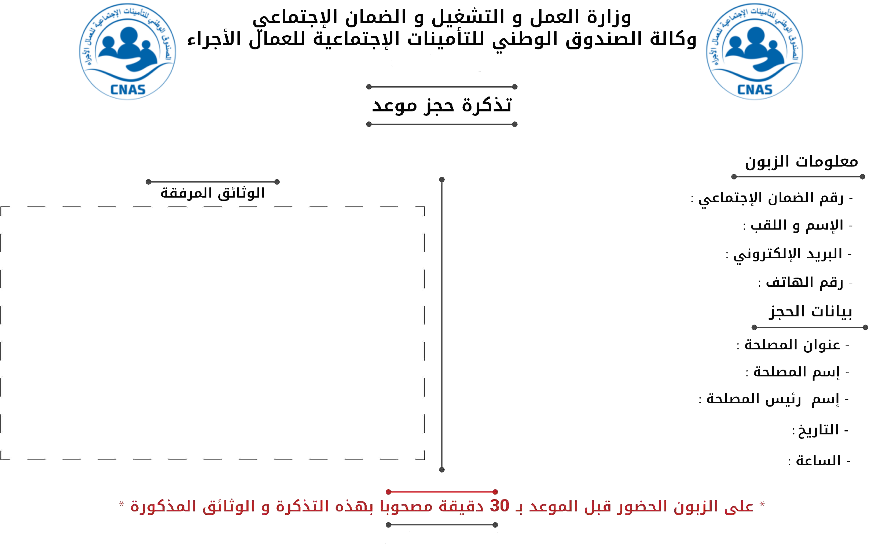
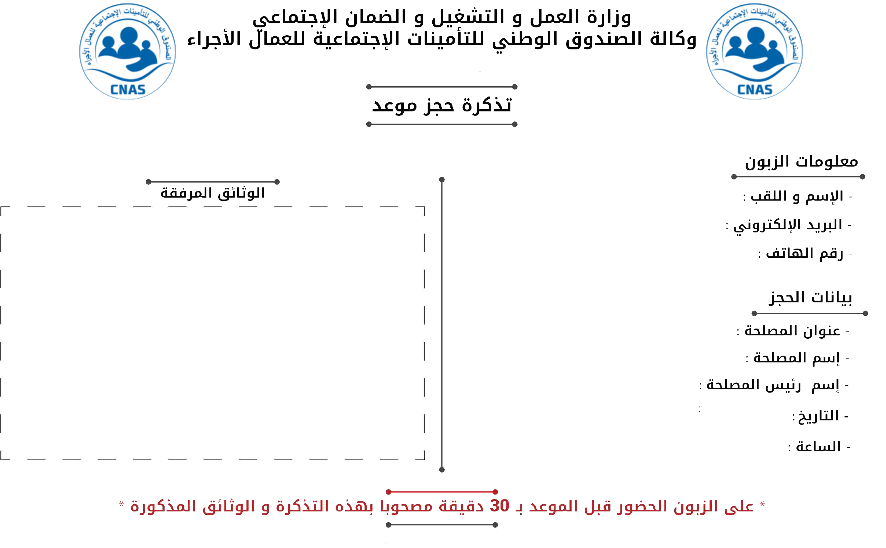
added appointment ticket

Changed region(s): [[0.7923, 0.4033, 0.9752, 0.8686], [0.7923, 0.3412, 0.9752, 0.3723]]

diff --git a/guichet_virtuel_cnas_m/resources/views/user/home.blade.php b/guichet_virtuel_cnas_m/resources/views/user/home.blade.php
@@ -136,9 +136,10 @@
                                         <td>@{{ myAppointment.employee.service.name }}</td>
                                         <td>@{{ myAppointment.employee.fullname }}</td>
                                         <td :class="getStatusClass(myAppointment.status)">@{{ myAppointment.status }}</td>
-                                       
-                                        <td  >
-                                            <button type="button" class="btn btn-primary btn-sm">Download</button>
+
+                                        <td>
+                                            <button type="button" class="btn btn-primary btn-sm"
+                                                v-on:click="printAppointment(myAppointment)">Download</button>
                                         </td>
                                     </tr>
                                 </tbody>
@@ -452,15 +453,15 @@
                                                         <div class="col-4">
                                                             <div class="list-group" v-if="documents.length > 0">
                                                                 <div class="list-group-item list-group-item-action"
-                                                                v-for="(document, index) in documents"
-                                                                :key="index">
-                                                                <div class="form-check">
-                                                                    <input class="form-check-input"
-                                                                    type="checkbox"
-                                                                    :id="'document-checkbox-' + index" disabled>
-                                                                    <label class="form-check-label"
-                                                                    :for="'document-checkbox-' + index">
-                                                                    @{{ document.name }}
+                                                                    v-for="(document, index) in documents"
+                                                                    :key="index">
+                                                                    <div class="form-check">
+                                                                        <input class="form-check-input"
+                                                                            type="checkbox"
+                                                                            :id="'document-checkbox-' + index" disabled>
+                                                                        <label class="form-check-label"
+                                                                            :for="'document-checkbox-' + index">
+                                                                            @{{ document.name }}
                                                                         </label>
                                                                     </div>
                                                                 </div>
@@ -474,33 +475,32 @@
                                                     <div class="row justify-content-between">
                                                         <div class="col-auto">
                                                             <button class="btn btn-primary"
-                                                            v-on:click="fetch_previous_questions()">
-                                                            <i class="fas fa-arrow-left"></i>
-                                                            Back
-                                                        </button>
+                                                                v-on:click="fetch_previous_questions()">
+                                                                <i class="fas fa-arrow-left"></i>
+                                                                Back
+                                                            </button>
+                                                        </div>
+                                                        <div class="col-auto">
+                                                            <button class="btn btn-primary"
+                                                                v-if="documents.length > 0 && fullname!=''"
+                                                                v-on:click="showBookingForm=true">
+                                                                <i class="fas fa-book"></i>
+                                                                Book
+                                                            </button>
+                                                            <button class="btn btn-primary"
+                                                                v-on:click="printDocuments"
+                                                                v-if="documents.length > 0">
+                                                                <i class="fas fa-print"></i>
+                                                                Print
+                                                            </button>
+                                                        </div>
                                                     </div>
-                                                    <div class="col-auto">
-                                                        <button class="btn btn-primary"
-                                                        v-if="documents.length > 0 && fullname!=''"
-                                                        v-on:click="showBookingForm=true">
-                                                        <i class="fas fa-book"></i>
-                                                        Book
-                                                    </button>
-                                                    <button class="btn btn-primary"
-                                                    v-on:click="printDocuments"
-                                                    v-if="documents.length > 0">
-                                                    <i class="fas fa-print"></i>
-                                                    Print
-                                                </button>
+                                                </div>
                                             </div>
                                         </div>
-                                    </div>
-                                </div>
-                            </div>
-                            <div v-if="fullname == '' "
-                                class="list-group-item text-danger">
-                                LOGIN TO BOOK AN APPOINTMENT
-                            </div>
+                                        <div v-if="fullname == '' " class="list-group-item text-danger">
+                                            LOGIN TO BOOK AN APPOINTMENT
+                                        </div>
                                         <div class="col-10"
                                             :class=" [showBookingForm ? 'col-10 animated fadeInDown' :
                                                  'col-10 animated fadeOutDown'
@@ -837,16 +837,16 @@
                                 console.log('30/05/2023');
                             },
                             printDocuments() {
-                //                                 const doc = new jsPDF();
-                //                                 var img = new Image();
-                //                                 img.src =  asset('assets/tickets/img/documents.png');
-                //                                 doc.addImage(img, 'png', 10, 78, 12, 15);
-                //                                 doc.text("Hello world!", 10, 10);
-                //                                 doc.save("a4.pdf");
-                //                                 const printContents = document.querySelector('.col-4 .list-group').innerHTML;
-                //                                 const printWindow = window.open('', '', 'width=800,height=600');
-                //                                 printWindow.document.open();
-                //                                 printWindow.document.write(`
+                                //                                 const doc = new jsPDF();
+                                //                                 var img = new Image();
+                                //                                 img.src =  asset('assets/tickets/img/documents.png');
+                                //                                 doc.addImage(img, 'png', 10, 78, 12, 15);
+                                //                                 doc.text("Hello world!", 10, 10);
+                                //                                 doc.save("a4.pdf");
+                                //                                 const printContents = document.querySelector('.col-4 .list-group').innerHTML;
+                                //                                 const printWindow = window.open('', '', 'width=800,height=600');
+                                //                                 printWindow.document.open();
+                                //                                 printWindow.document.write(`
                 //   <html>
                 //     <head>
                 //       <title>Print</title>
@@ -896,17 +896,20 @@
                 //     </body>
                 //   </html>
                 // `);
-                //                                 printWindow.document.close();
-                //                                 printWindow.onload = function() {
-                //                                     printWindow.print();
-                //                                     printWindow.onafterprint = function() {
-                //                                         printWindow.close();
-                //                                     };
-                //                                 };
+                                //                                 printWindow.document.close();
+                                //                                 printWindow.onload = function() {
+                                //                                     printWindow.print();
+                                //                                     printWindow.onafterprint = function() {
+                                //                                         printWindow.close();
+                                //                                     };
+                                //                                 };
                             },
-                            printAppointment() {
+                            printAppointment(appointment) {
 
                                 const doc = new jsPDF();
+                                doc.setFontSize(11);
+                                doc.setFontType("bold");
+
 
                                 // Set the background image
                                 const backgroundImage = new Image();
@@ -919,12 +922,19 @@
 
                                     // Add the background image to the PDF with the updated size and position
                                     doc.addImage(backgroundImage, 'png', 0, 0, 210,
-                                        140); // Adjust the coordinates and dimensions as needed
+                                        135);
 
-                                    // Add appointment details and other content to the PDF
-                                    // ...
-
-                                    // Save the PDF
+                                    doc.text(123, 96.5, appointment.employee.fullname.toString());
+                                    doc.text(132, 50, appointment.user.fullname.toString());
+                                    doc.text(112, 57, appointment.user.email.toString());
+                                    doc.text(155, 64, appointment.user.telephone.toString());
+                                    doc.text(108, 83, appointment.user.structure.address.toString());
+                                    doc.text(150, 90, appointment.employee.service.name.toString());
+                                    doc.text(166, 104, appointment.appointment_datetime.toString().split(' ')[0]);
+                                    doc.text(166, 111.6, appointment.appointment_datetime.toString().split(' ')[1]);
+                                    doc.text(166, 111.6, appointment.appointment_datetime.toString().split(' ')[1]);
+                                    var height = 60;
+                                    appointment.question.documents.map( (document,index) => doc.text(10,  height + (index * 5), '- ' +document.name.toString() ));
                                     doc.save('appointment_ticket.pdf');
                                 }
                             },
@@ -947,11 +957,11 @@
                                         })
                                         .then(function(response) {
 
-    
+
                                             app.notify('Booking Successful', 'Your Appointment is booked', 'green',
                                                 'topCenter',
                                                 'bounceInDown');
-                                          
+
                                             app.selectedDate = '';
                                             app.selectedQuestion = '';
                                             return;
@@ -961,8 +971,7 @@
                                                 'topCenter', 'bounceInDown');
                                             app.selectedDate = '';
                                             app.selectedQuestion = '';
-                                        })
-                                        ;
+                                        });
                                 } else {
                                     // Handle the case when the user is not authenticated
                                     window.location.href = '/login';

diff --git a/guichet_virtuel_cnas_m/database/migrations/2023_05_31_155122_add_address_to_structures_table.php b/guichet_virtuel_cnas_m/database/migrations/2023_05_31_155122_add_address_to_structures_table.php
@@ -1,0 +1,32 @@
+<?php
+
+use Illuminate\Database\Migrations\Migration;
+use Illuminate\Database\Schema\Blueprint;
+use Illuminate\Support\Facades\Schema;
+
+return new class extends Migration
+{
+    /**
+     * Run the migrations.
+     *
+     * @return void
+     */
+    public function up()
+    {
+        Schema::table('structures', function (Blueprint $table) {
+            $table->string('address')->nullable();
+        });
+    }
+
+    /**
+     * Reverse the migrations.
+     *
+     * @return void
+     */
+    public function down()
+    {
+        Schema::table('structures', function (Blueprint $table) {
+            $table->dropColumn('address');
+        });
+    }
+};

diff --git a/guichet_virtuel_cnas_m/app/Http/Controllers/AppointmentController.php b/guichet_virtuel_cnas_m/app/Http/Controllers/AppointmentController.php
@@ -204,7 +204,7 @@ class AppointmentController extends Controller
 
     public function getMyAppointments()
     {
-        $appointments = Appointment::with('user', 'question','employee.service')->where('user_id', Auth::user()->id)
+        $appointments = Appointment::with('user.structure', 'question.documents','employee.service')->where('user_id', Auth::user()->id)
             ->orderBy('appointment_datetime', 'asc')
             ->get();
         return response()->json(['appointments' => $appointments]);
